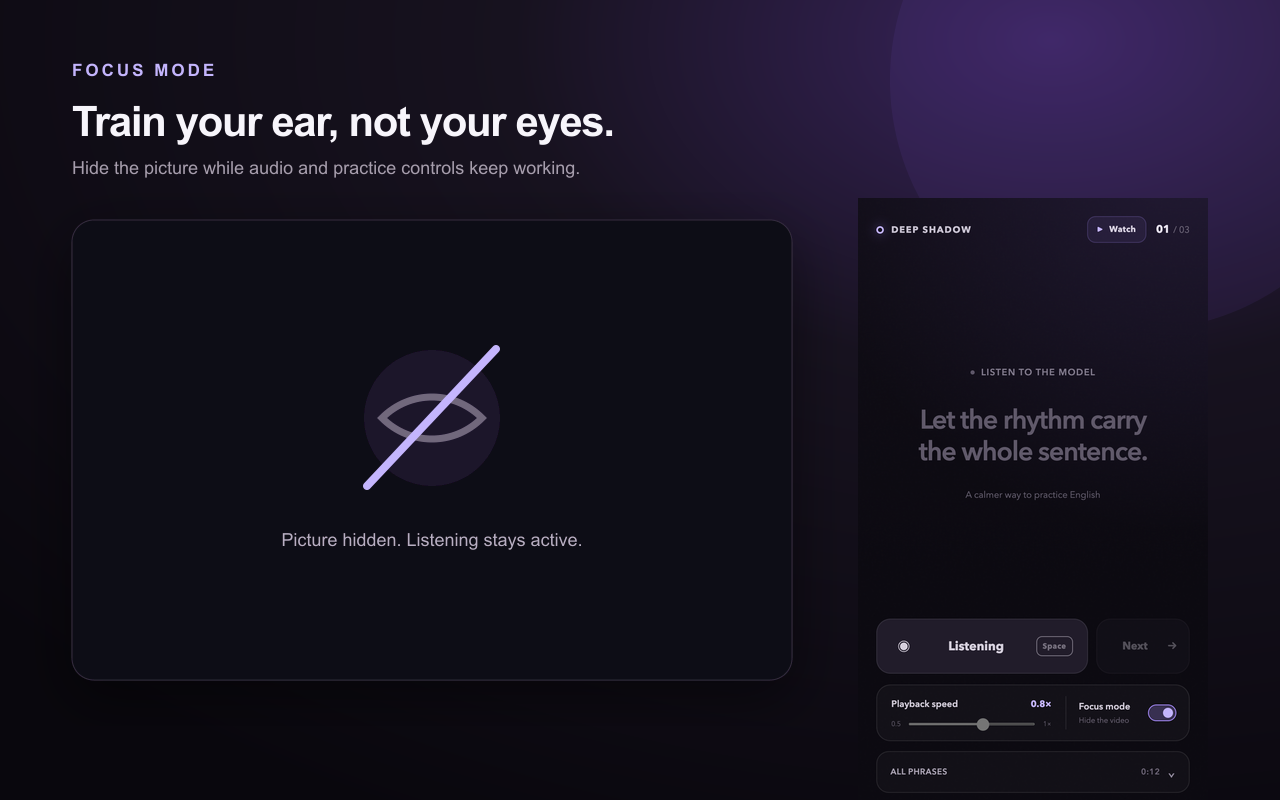
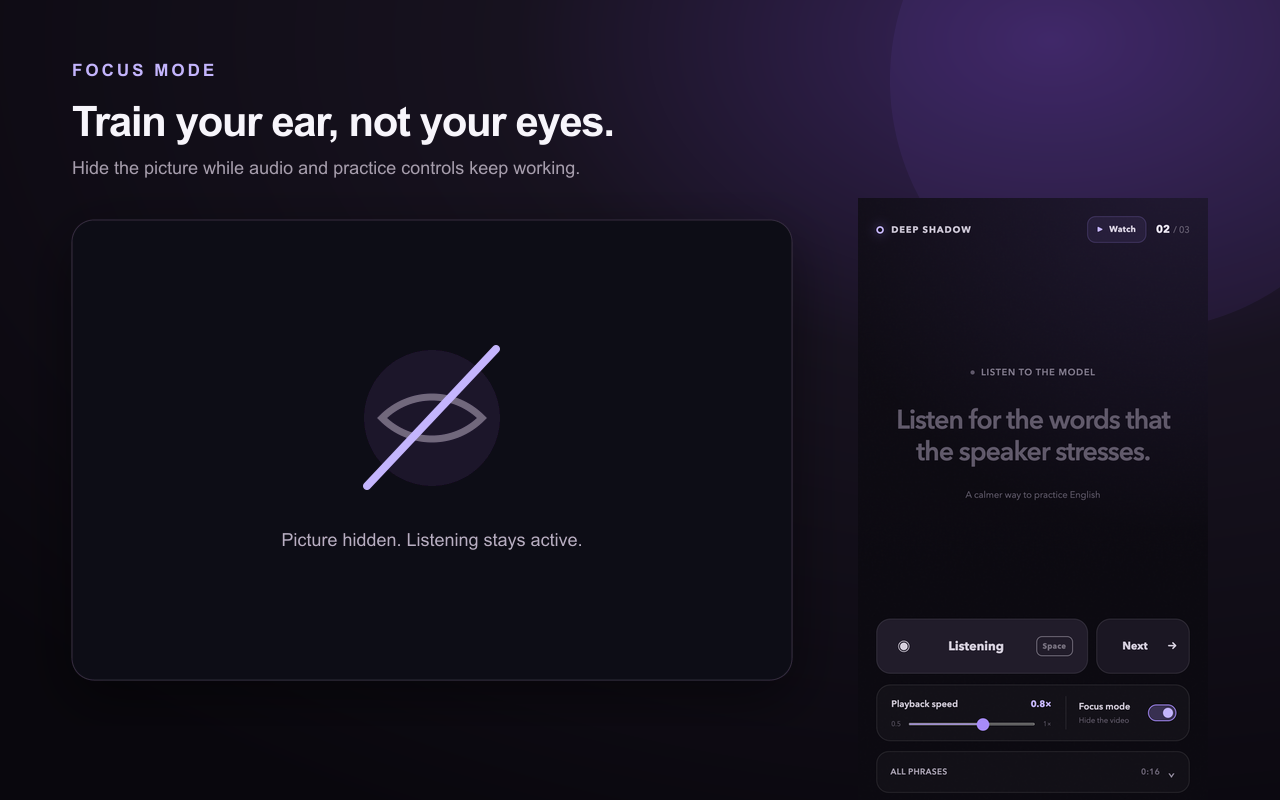
Use generated Store screenshots as site assets

Changed region(s): [[0.6875, 0.5, 0.9062, 0.5938], [0.875, 0.7812, 0.9062, 0.8125], [0.75, 0.875, 0.7812, 0.9062]]

diff --git a/README.md b/README.md
@@ -4,7 +4,7 @@ Static, telemetry-free product, privacy, and support pages for [Deep Shadow](htt
 
 The site has no build step, dependencies, cookies, analytics, forms, remote fonts, or client-side scripts. GitHub Pages publishes the `main` branch root.
 
-The centered echo-ring logo and Store imagery are generated from the private extension repository's vector asset sources.
+The centered echo-ring logo and Store imagery are generated from the private extension repository's vector asset sources. This repository is checked out there as the `website/` submodule, so shared public assets are written and tracked here instead of duplicated across both repositories.
 
 Chrome Web Store item ID: `cpbepidgmlfhcinlofagpfemhglgbiia`. The initial release is currently under review.
 